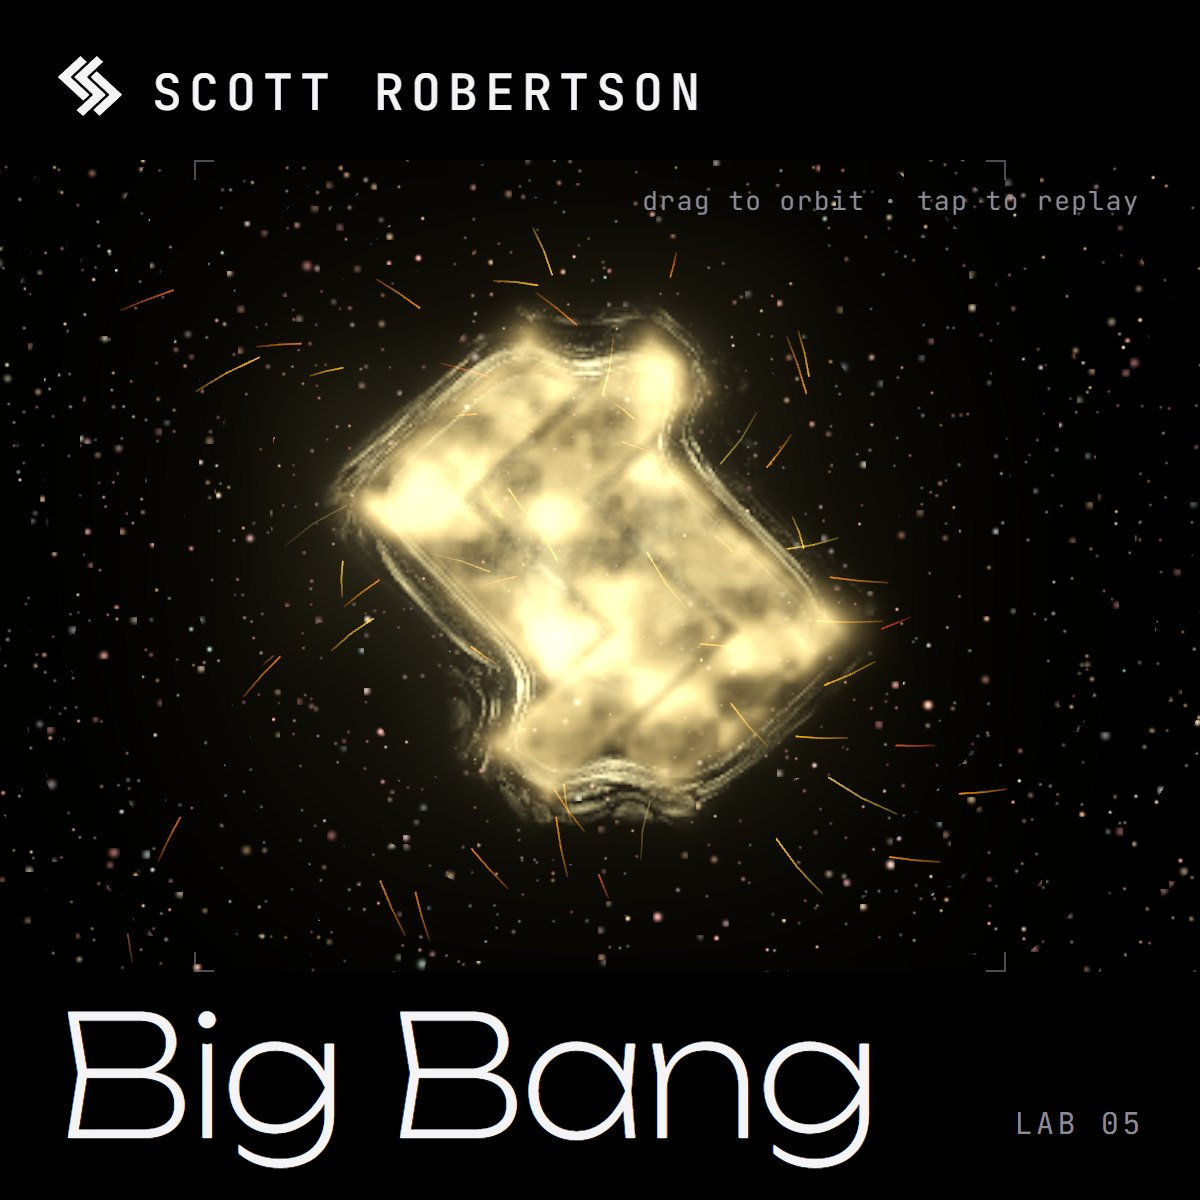
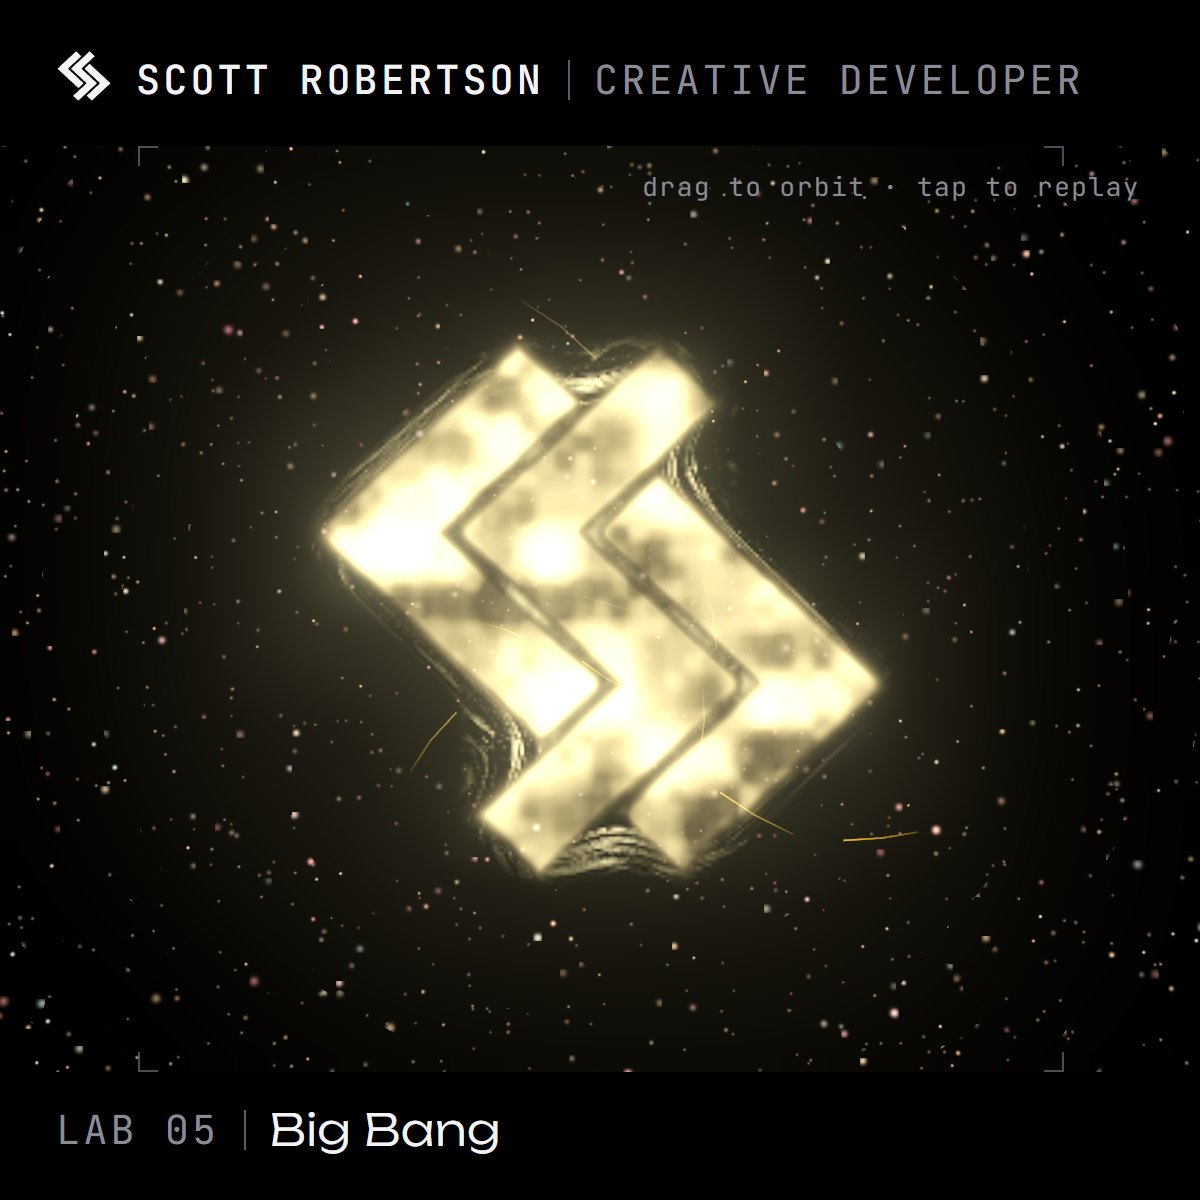
Share cards: name and 'Creative Developer' up top, 'LAB 06 | Radiant' below at the same size

diff --git a/scripts/share-card.html b/scripts/share-card.html
@@ -7,23 +7,23 @@
 <link rel="stylesheet" href="../site/feed.css">
 <style>
   html, body { margin: 0; width: 600px; height: 600px; overflow: hidden; background: var(--bg); }
-  .card { position: absolute; inset: 0; display: grid; grid-template-rows: auto 1fr auto; grid-template-columns: minmax(0, 1fr); padding: 26px 28px 24px; gap: 14px; }
-  .head { display: flex; align-items: center; gap: 14px; color: var(--ink); }
-  .head svg { flex: none; }
-  .name { font: 500 25px/1 var(--mono); letter-spacing: .14em; text-transform: uppercase; }
+  .card { position: absolute; inset: 0; display: grid; grid-template-rows: auto 1fr auto; grid-template-columns: minmax(0, 1fr); padding: 24px 28px; gap: 18px; }
+  /* the head and foot are one size, so the name and the lab read as equals */
+  .head, .foot { display: flex; align-items: center; gap: 12px; white-space: nowrap; font: 400 20px/1 var(--mono); letter-spacing: .08em; text-transform: uppercase; color: var(--dim); }
+  .head svg { flex: none; color: var(--ink); }
+  .name { font-weight: 500; color: var(--ink); }
+  .rule { flex: none; width: 1px; height: 20px; background: var(--line); }
+  .title { font: 300 22px/1 var(--display); letter-spacing: .01em; text-transform: none; color: var(--ink); }
   .stage { position: relative; margin: 0 -28px; }
   .stage iframe { position: absolute; inset: 0; width: 100%; height: 100%; border: 0; }
   .hint { position: absolute; top: 14px; right: 30px; font: 400 13px/1 var(--mono); letter-spacing: .06em; color: var(--dim); }
-  .foot { display: flex; align-items: flex-end; justify-content: space-between; gap: 16px; }
-  .title { font: 200 84px/.9 var(--display); letter-spacing: -.02em; color: var(--ink); white-space: nowrap; }
-  .num { font: 400 15px/1 var(--mono); letter-spacing: .12em; text-transform: uppercase; color: var(--dim); padding-bottom: 6px; white-space: nowrap; }
 </style>
 </head>
 <body>
 <div class="card">
-  <div class="head"><span id="mark"></span><span class="name" id="name"></span></div>
+  <div class="head"><span id="mark"></span><span class="name" id="name"></span><i class="rule"></i><span id="line"></span></div>
   <div class="stage"><iframe id="toy" allow="clipboard-write"></iframe><span class="hint" id="hint"></span></div>
-  <div class="foot"><span class="title" id="title"></span><span class="num" id="num"></span></div>
+  <div class="foot"><span id="num"></span><i class="rule"></i><span class="title" id="title"></span></div>
 </div>
 <script type="module">
   import { LABS } from '../labs/manifest.js';
@@ -31,16 +31,13 @@
   import { logoSVG } from '../labs/shared/logo.js';
   const slug = new URLSearchParams(location.search).get('slug');
   const t = LABS.find(l => l.slug === slug) || LABS[0];
-  document.getElementById('mark').innerHTML = logoSVG({ size: 34 });
+  document.getElementById('mark').innerHTML = logoSVG({ size: 28 });
   document.getElementById('name').textContent = ARTIST.name;
+  document.getElementById('line').textContent = ARTIST.line;
   document.getElementById('title').textContent = t.title;
   document.getElementById('num').textContent = 'lab ' + t.number;
   document.getElementById('hint').textContent = (t.touchHint || t.hint || '').split('<br>')[0];
-  // shrink a long title until it fits beside the lab number
-  const title = document.getElementById('title'), num = document.getElementById('num'), foot = title.parentElement;
-  await document.fonts.load('200 84px Unbounded');
-  const room = () => foot.clientWidth - num.offsetWidth - 16;
-  for (let s = 84; s > 40 && title.scrollWidth > room(); s -= 2) title.style.fontSize = s + 'px';
+  await document.fonts.load('300 22px Unbounded');
   document.getElementById('toy').src = `../${t.href}?embed=1`;
 </script>
 </body>

diff --git a/lab/pachinko/index.html b/lab/pachinko/index.html
@@ -13,7 +13,7 @@
 <meta property="og:title" content="Pachinko · Scott Robertson">
 <meta property="og:description" content="A Galton board everywhere the mark isn’t, cut along the mark’s own angles. Tap to drop a ball or hold to pour, and watch the bins lean toward a bell curve.">
 <meta property="og:url" content="https://sc0ttr0berts0n.github.io/personal-site-2026/lab/pachinko/">
-<meta property="og:image" content="https://sc0ttr0berts0n.github.io/personal-site-2026/share/pachinko.jpg?v=71c76a9e">
+<meta property="og:image" content="https://sc0ttr0berts0n.github.io/personal-site-2026/share/pachinko.jpg?v=a201ff9b">
 <meta property="og:image:width" content="1200">
 <meta property="og:image:height" content="1200">
 <meta property="og:image:alt" content="Pachinko, lab 08 by Scott Robertson">

diff --git a/lab/goop/index.html b/lab/goop/index.html
@@ -13,7 +13,7 @@
 <meta property="og:title" content="Neon Oil · Scott Robertson">
 <meta property="og:description" content="The mark rises out of a pool of black oil. Sheets of it slide off, long ropes stretch back down to the pool and snap, and the clean mark shows through.">
 <meta property="og:url" content="https://sc0ttr0berts0n.github.io/personal-site-2026/lab/goop/">
-<meta property="og:image" content="https://sc0ttr0berts0n.github.io/personal-site-2026/share/goop.jpg?v=d5caa8ab">
+<meta property="og:image" content="https://sc0ttr0berts0n.github.io/personal-site-2026/share/goop.jpg?v=f5fe33eb">
 <meta property="og:image:width" content="1200">
 <meta property="og:image:height" content="1200">
 <meta property="og:image:alt" content="Neon Oil, lab 03 by Scott Robertson">

diff --git a/lab/splat/index.html b/lab/splat/index.html
@@ -13,7 +13,7 @@
 <meta property="og:title" content="Splat! · Scott Robertson">
 <meta property="og:description" content="The mark is made of slime and falling fast. It splats on the floor, the next mark pops out of the splat, then the floor gives way and down they go.">
 <meta property="og:url" content="https://sc0ttr0berts0n.github.io/personal-site-2026/lab/splat/">
-<meta property="og:image" content="https://sc0ttr0berts0n.github.io/personal-site-2026/share/splat.jpg?v=e2be0065">
+<meta property="og:image" content="https://sc0ttr0berts0n.github.io/personal-site-2026/share/splat.jpg?v=4ad8efe9">
 <meta property="og:image:width" content="1200">
 <meta property="og:image:height" content="1200">
 <meta property="og:image:alt" content="Splat!, lab 12 by Scott Robertson">

diff --git a/lab/sand/index.html b/lab/sand/index.html
@@ -13,7 +13,7 @@
 <meta property="og:title" content="Falling Sand · Scott Robertson">
 <meta property="og:description" content="The mark as a sandbox of lava, water and wood. Lava eats the wood, water and lava make stone and steam, and wet ground grows flowers.">
 <meta property="og:url" content="https://sc0ttr0berts0n.github.io/personal-site-2026/lab/sand/">
-<meta property="og:image" content="https://sc0ttr0berts0n.github.io/personal-site-2026/share/sand.jpg?v=8db53bcd">
+<meta property="og:image" content="https://sc0ttr0berts0n.github.io/personal-site-2026/share/sand.jpg?v=9e8bb905">
 <meta property="og:image:width" content="1200">
 <meta property="og:image:height" content="1200">
 <meta property="og:image:alt" content="Falling Sand, lab 10 by Scott Robertson">

diff --git a/lab/life/index.html b/lab/life/index.html
@@ -13,7 +13,7 @@
 <meta property="og:title" content="Life · Scott Robertson">
 <meta property="og:description" content="The mark, built as a still life in Conway’s Game of Life. One glider is enough to unravel it, and when the chaos burns out, it rebuilds.">
 <meta property="og:url" content="https://sc0ttr0berts0n.github.io/personal-site-2026/lab/life/">
-<meta property="og:image" content="https://sc0ttr0berts0n.github.io/personal-site-2026/share/life.jpg?v=9d3e2460">
+<meta property="og:image" content="https://sc0ttr0berts0n.github.io/personal-site-2026/share/life.jpg?v=56c74938">
 <meta property="og:image:width" content="1200">
 <meta property="og:image:height" content="1200">
 <meta property="og:image:alt" content="Life, lab 11 by Scott Robertson">

diff --git a/lab/prism/index.html b/lab/prism/index.html
@@ -13,7 +13,7 @@
 <meta property="og:title" content="Prism · Scott Robertson">
 <meta property="og:description" content="A laser crosses the mark from above. Each color bends at its own angle, and steep rays get trapped, bouncing around inside the glass.">
 <meta property="og:url" content="https://sc0ttr0berts0n.github.io/personal-site-2026/lab/prism/">
-<meta property="og:image" content="https://sc0ttr0berts0n.github.io/personal-site-2026/share/prism.jpg?v=6567e6ce">
+<meta property="og:image" content="https://sc0ttr0berts0n.github.io/personal-site-2026/share/prism.jpg?v=1d3bb07f">
 <meta property="og:image:width" content="1200">
 <meta property="og:image:height" content="1200">
 <meta property="og:image:alt" content="Prism, lab 02 by Scott Robertson">

diff --git a/lab/neural/index.html b/lab/neural/index.html
@@ -13,7 +13,7 @@
 <meta property="og:title" content="Neural Mark · Scott Robertson">
 <meta property="og:description" content="A small neural network learns the mark from scratch, live, in seconds. Scribble on it and watch it forget, then heal.">
 <meta property="og:url" content="https://sc0ttr0berts0n.github.io/personal-site-2026/lab/neural/">
-<meta property="og:image" content="https://sc0ttr0berts0n.github.io/personal-site-2026/share/neural.jpg?v=6df89bb7">
+<meta property="og:image" content="https://sc0ttr0berts0n.github.io/personal-site-2026/share/neural.jpg?v=9528997a">
 <meta property="og:image:width" content="1200">
 <meta property="og:image:height" content="1200">
 <meta property="og:image:alt" content="Neural Mark, lab 09 by Scott Robertson">

diff --git a/lab/maze/index.html b/lab/maze/index.html
@@ -13,7 +13,7 @@
 <meta property="og:title" content="Maze · Scott Robertson">
 <meta property="og:description" content="Each chevron holds its own maze, and A* solves all three at once. Change the heuristic and see how much of each maze it has to explore.">
 <meta property="og:url" content="https://sc0ttr0berts0n.github.io/personal-site-2026/lab/maze/">
-<meta property="og:image" content="https://sc0ttr0berts0n.github.io/personal-site-2026/share/maze.jpg?v=c547f8b4">
+<meta property="og:image" content="https://sc0ttr0berts0n.github.io/personal-site-2026/share/maze.jpg?v=602d6f21">
 <meta property="og:image:width" content="1200">
 <meta property="og:image:height" content="1200">
 <meta property="og:image:alt" content="Maze, lab 07 by Scott Robertson">

diff --git a/index.html b/index.html
@@ -15,7 +15,7 @@
 <meta property="og:title" content="Scott Robertson · Creative Developer">
 <meta property="og:description" content="Each chevron is a sealed glass vessel, part-filled with liquid. Tilt it and watch the surface slosh, then settle level again.">
 <meta property="og:url" content="https://sc0ttr0berts0n.github.io/personal-site-2026/">
-<meta property="og:image" content="https://sc0ttr0berts0n.github.io/personal-site-2026/share/fluid.jpg?v=61b6b259">
+<meta property="og:image" content="https://sc0ttr0berts0n.github.io/personal-site-2026/share/fluid.jpg?v=edcc228f">
 <meta property="og:image:width" content="1200">
 <meta property="og:image:height" content="1200">
 <meta property="og:image:alt" content="Vessel, lab 01 by Scott Robertson">

diff --git a/lab/fluid/index.html b/lab/fluid/index.html
@@ -13,7 +13,7 @@
 <meta property="og:title" content="Vessel · Scott Robertson">
 <meta property="og:description" content="Each chevron is a sealed glass vessel, part-filled with liquid. Tilt it and watch the surface slosh, then settle level again.">
 <meta property="og:url" content="https://sc0ttr0berts0n.github.io/personal-site-2026/lab/fluid/">
-<meta property="og:image" content="https://sc0ttr0berts0n.github.io/personal-site-2026/share/fluid.jpg?v=61b6b259">
+<meta property="og:image" content="https://sc0ttr0berts0n.github.io/personal-site-2026/share/fluid.jpg?v=edcc228f">
 <meta property="og:image:width" content="1200">
 <meta property="og:image:height" content="1200">
 <meta property="og:image:alt" content="Vessel, lab 01 by Scott Robertson">

diff --git a/lab/knockout/index.html b/lab/knockout/index.html
@@ -13,7 +13,7 @@
 <meta property="og:title" content="Knockout · Scott Robertson">
 <meta property="og:description" content="The mark stands on three slim plinths with rubber caps. Pull back anywhere and let go to throw a ball at it.">
 <meta property="og:url" content="https://sc0ttr0berts0n.github.io/personal-site-2026/lab/knockout/">
-<meta property="og:image" content="https://sc0ttr0berts0n.github.io/personal-site-2026/share/knockout.jpg?v=4473b024">
+<meta property="og:image" content="https://sc0ttr0berts0n.github.io/personal-site-2026/share/knockout.jpg?v=cd1b2821">
 <meta property="og:image:width" content="1200">
 <meta property="og:image:height" content="1200">
 <meta property="og:image:alt" content="Knockout, lab 04 by Scott Robertson">
